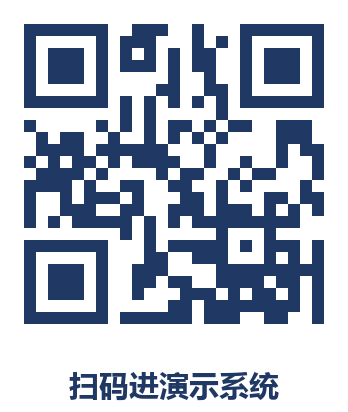
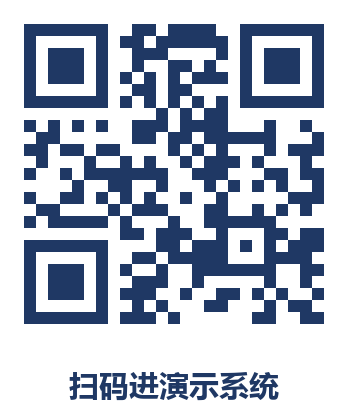
fix: 启动.bat 改用 py -3 并转 GBK 编码；二维码按当前 IP 重生成

diff --git a/slides/汇报_单文件.html b/slides/汇报_单文件.html
@@ -379,12 +379,12 @@ input[type=range]::-webkit-slider-thumb{-webkit-appearance:none;width:28px;heigh
       </div>
       <div style="flex:.65;text-align:center">
         <div style="background:#fff;border-radius:16px;padding:16px;display:inline-block">
[2 lines of base64/hex data omitted]
         </div>
         <div style="margin-top:16px;font-size:21px;font-weight:800;color:#E7EDF7;letter-spacing:.5px;font-family:Consolas,monospace">
-          10.64.126.63:8501
+          10.64.84.148:8501
         </div>
-        <div class="small" style="margin-top:6px;color:#8C9DB6">同一个 WiFi 下扫码即可<br>（现场替换为当天地址）</div>
+        <div class="small" style="margin-top:6px;color:#8C9DB6">同一个 WiFi 下扫码<br>IP 会变，演示前用 make_qr.py 重生成</div>
       </div>
     </div>
     <div style="margin-top:38px;padding-top:18px;border-top:1px solid #22304A;font-size:16px;color:#8C9DB6">

diff --git a/slides/deck.html b/slides/deck.html
@@ -382,9 +382,9 @@ input[type=range]::-webkit-slider-thumb{-webkit-appearance:none;width:28px;heigh
           <img src="../docs/qr_lan.png" style="width:230px;display:block">
         </div>
         <div style="margin-top:16px;font-size:21px;font-weight:800;color:#E7EDF7;letter-spacing:.5px;font-family:Consolas,monospace">
-          10.64.126.63:8501
+          10.64.84.148:8501
         </div>
-        <div class="small" style="margin-top:6px;color:#8C9DB6">同一个 WiFi 下扫码即可<br>（现场替换为当天地址）</div>
+        <div class="small" style="margin-top:6px;color:#8C9DB6">同一个 WiFi 下扫码<br>IP 会变，演示前用 make_qr.py 重生成</div>
       </div>
     </div>
     <div style="margin-top:38px;padding-top:18px;border-top:1px solid #22304A;font-size:16px;color:#8C9DB6">
